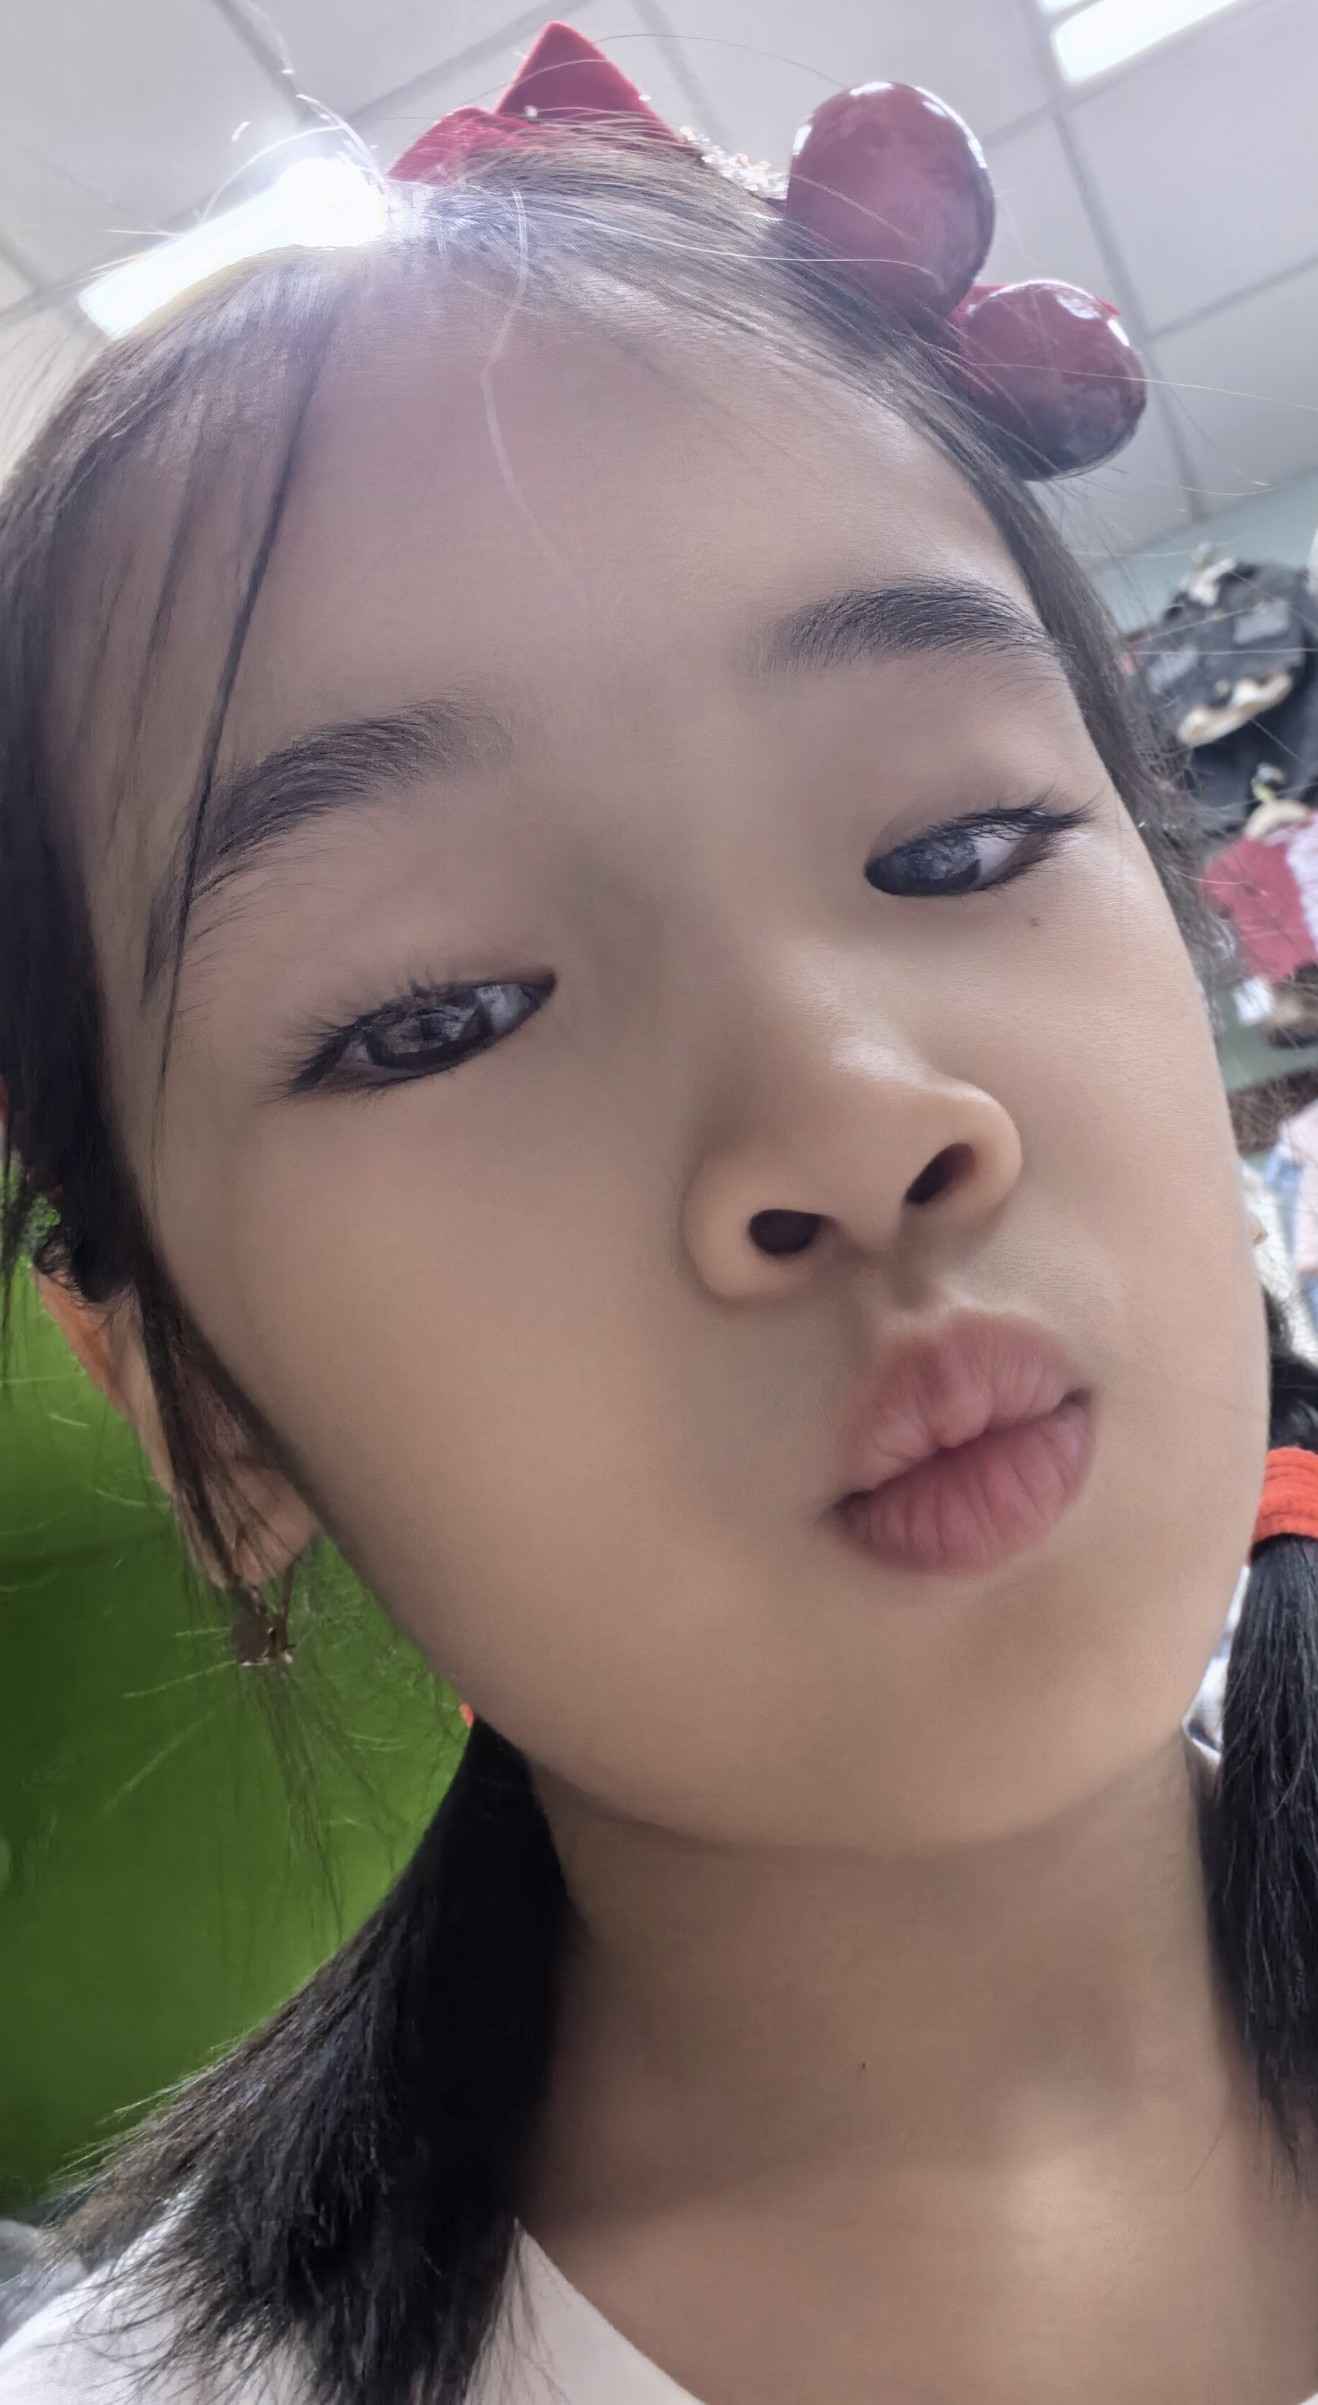
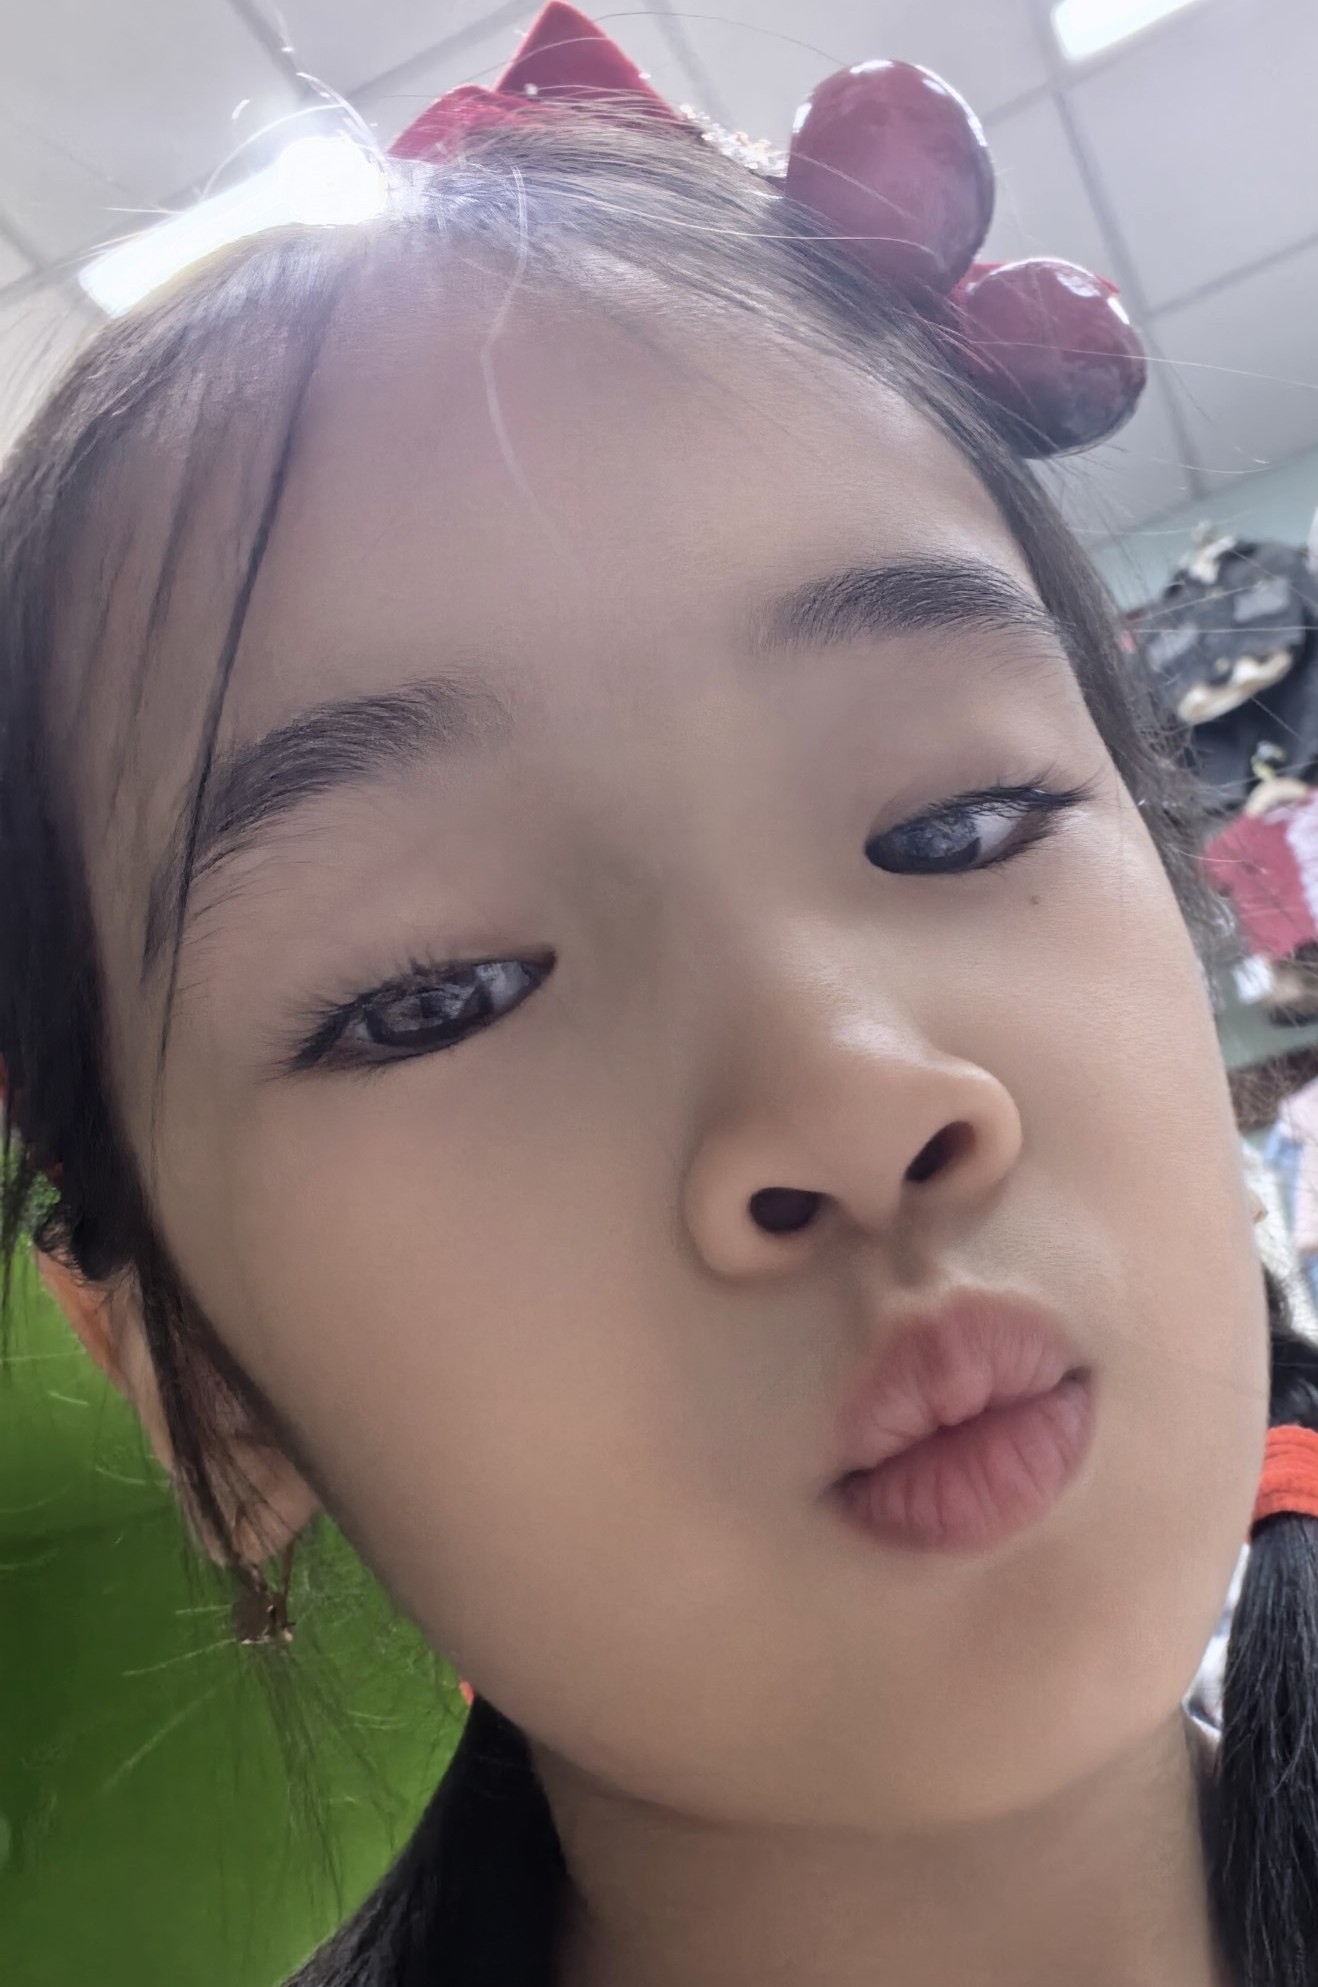
gg

diff --git a/oilam.html b/oilam.html
@@ -55,8 +55,8 @@
             </div>
             <div class="wrapper-3">
               <img
-                style="border-radius: 9999px"
-                src="imgs/"
+                style="border-radius: 9999px;width: 130px;height: 130px;"
+                src="imgs/oyim.jpg"
                 alt=""
               />
               <div>
@@ -69,8 +69,8 @@
           <div class="wrapper-2">
             <div class="wrapper-3">
               <img
-                style="border-radius: 9999px"
-                src="https://picsum.photos/130/130"
+                style="border-radius: 9999px; width: 700px; height: 120px;"
+                src="/imgs/ozim.jpg"
                 alt=""
               />
               <div>
